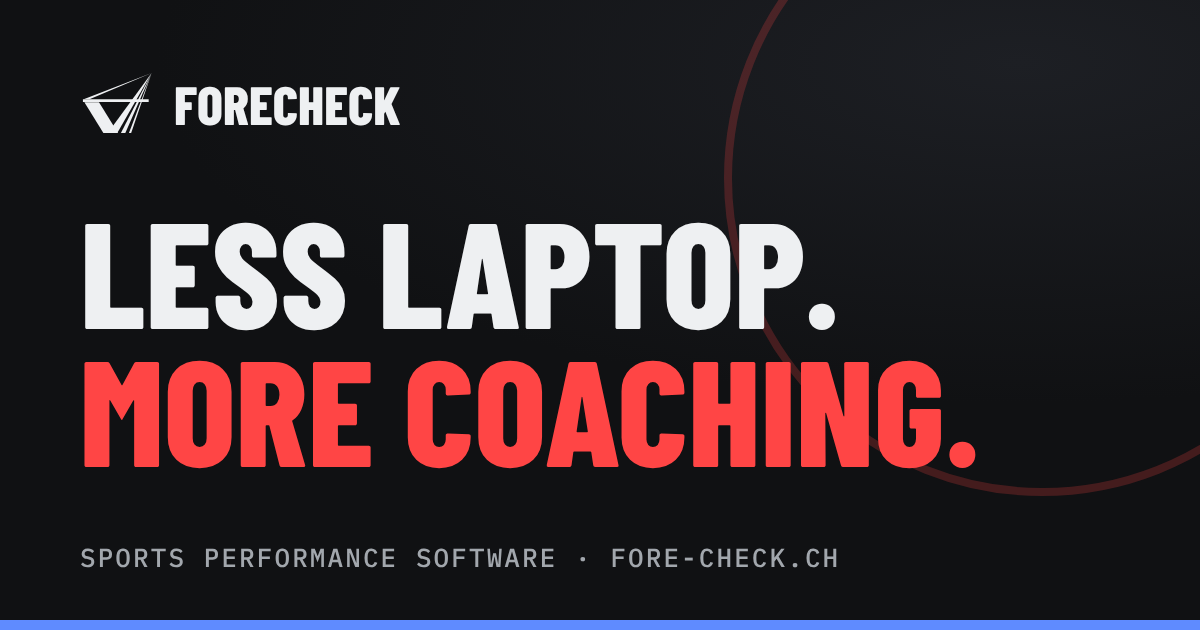
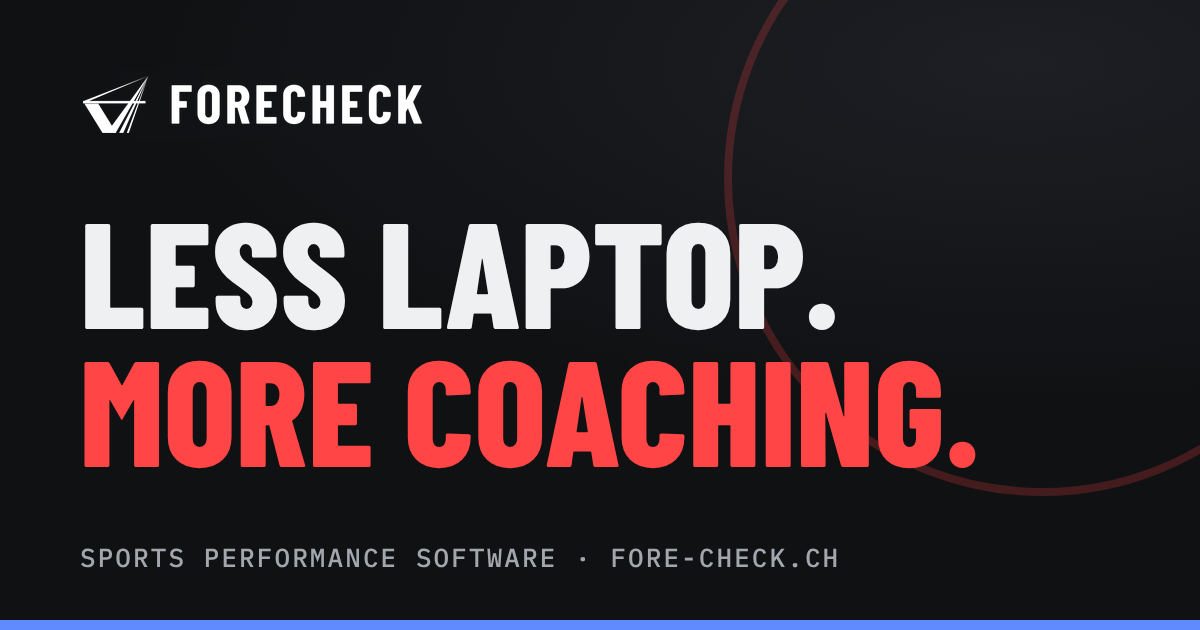
Brand lettering A1: FORECHECK in Barlow Condensed Bold .06em in the header and page mock-ups on all languages, og and hello images (Sergio 30/10)

Changed region(s): [[0.0617, 0.1206, 0.37, 0.2111]]

diff --git a/assets/theme.css b/assets/theme.css
@@ -34,8 +34,7 @@ h3{font-size:1.18rem;text-transform:none}
 
 /* header */
 header.top{background:color-mix(in srgb,var(--ice) 90%,transparent)}
-.mark{font-family:var(--display);font-weight:700;font-size:1.05rem;letter-spacing:.24em;text-transform:uppercase}
-.mark b{font-weight:700}
+.mark{font-family:var(--display);font-weight:700;font-size:1.85rem;line-height:1;letter-spacing:.06em;text-transform:uppercase}
 nav.links a[aria-current="page"],nav.pages a[aria-current="page"]{color:var(--strong);box-shadow:0 2px 0 var(--accent)}
 .btn{border-radius:var(--r);border:1px solid var(--line);background:var(--panel);color:var(--strong);padding:11px 18px;font-weight:700}
 .btn:hover{border-color:var(--accent)}
@@ -138,7 +137,7 @@ nav.links a[aria-current="page"],nav.pages a[aria-current="page"]{color:var(--st
 /* demo app screens on the feature pages: the app shell (side menu, slim top bar, round mic) */
 .screen.shell{display:grid;grid-template-columns:168px minmax(0,1fr);background:var(--app)}
 .shell .rail{background:var(--sheet);border-right:1px solid var(--line);padding:12px 8px;display:flex;flex-direction:column;gap:1px;font-size:12px;min-width:0}
-.shell .appmark{display:flex;align-items:center;gap:7px;padding:2px 6px 10px;font:700 11px var(--display);letter-spacing:.2em;color:var(--strong)}
+.shell .appmark{display:flex;align-items:center;gap:7px;padding:2px 6px 10px;font:700 15px var(--display);letter-spacing:.06em;color:var(--strong)}
 .shell .appmark svg{width:22px;height:19px}
 .shell .grp{font:700 9px var(--display);letter-spacing:.12em;text-transform:uppercase;color:var(--ink-2);padding:9px 8px 3px}
 .shell .rm{padding:5px 8px;border-radius:var(--r);white-space:nowrap;overflow:hidden;text-overflow:ellipsis;color:var(--ink)}
@@ -161,7 +160,7 @@ nav.links a[aria-current="page"],nav.pages a[aria-current="page"]{color:var(--st
 .phero h1{font-size:clamp(2.4rem,5.4vw,4.2rem)}
 
 /* small screens: keep logo, language and contact on one line */
-@media (max-width:600px){header.top .wrap{gap:8px}.mark{letter-spacing:.12em;font-size:.9rem;gap:8px}.mark svg{width:30px;height:26px}.top .btn{padding:8px 11px;font-size:.84rem}.lang select{padding:8px 26px 8px 10px;font-size:.84rem}.lang::after{right:10px}.actions{gap:6px}}
+@media (max-width:600px){header.top .wrap{gap:8px}.mark{font-size:1.45rem;gap:10px}.mark svg{width:30px;height:26px}.top .btn{padding:8px 11px;font-size:.84rem}.lang select{padding:8px 26px 8px 10px;font-size:.84rem}.lang::after{right:10px}.actions{gap:6px}}
 @media (max-width:430px){.mark span{display:none}}
 @media (max-width:600px){.fart,.fart>.pnl,.tblwrap{min-width:0;max-width:100%}.tbl{font-size:11.5px}.tbl th,.tbl td{padding:6px 5px}}
 .next-link{font-weight:700;text-transform:none;font-size:clamp(2rem,6vw,3.4rem);line-height:1.05;overflow-wrap:anywhere}.next-link:hover{color:var(--accent)}

diff --git a/de/index.html b/de/index.html
@@ -67,9 +67,8 @@ p{margin:0;max-width:62ch}
 /* nav */
 header.top{position:sticky;top:env(safe-area-inset-top,0px);z-index:10;background:color-mix(in srgb,var(--ice) 88%,transparent);backdrop-filter:blur(10px);border-bottom:1px solid var(--line)}
 header.top .wrap{display:flex;align-items:center;justify-content:space-between;gap:16px;padding-block:14px}
-.mark{display:flex;align-items:center;gap:10px;font-family:var(--display);font-weight:800;font-size:1.6rem;text-transform:uppercase;text-decoration:none;letter-spacing:.01em}
+.mark{display:flex;align-items:center;gap:13px;font-family:var(--display);font-weight:700;font-size:1.85rem;line-height:1;text-transform:uppercase;text-decoration:none;letter-spacing:.06em}
 .mark svg{width:38px;height:33px;flex:none}
-.mark b{color:inherit;font-weight:800}
 nav.links{display:flex;gap:24px;font-weight:500}
 nav.links a{text-decoration:none;color:var(--ink-2)}
 nav.links a:hover{color:var(--ink)}
@@ -223,7 +222,7 @@ footer .about{display:block;font-size:.8rem;max-width:100ch;margin-top:10px;opac
 .lang select:hover{border-color:var(--ink-2)}
 .lang::after{content:"";position:absolute;right:15px;top:50%;width:7px;height:7px;border-right:2px solid var(--ink-2);border-bottom:2px solid var(--ink-2);transform:translateY(-70%) rotate(45deg);pointer-events:none}
 .sr{position:absolute;width:1px;height:1px;overflow:hidden;clip:rect(0 0 0 0);white-space:nowrap}
-@media (max-width:420px){.top .btn{padding:10px 14px}.mark{font-size:1.35rem}}
+@media (max-width:420px){.top .btn{padding:10px 14px}.mark{font-size:1.45rem}}
 @media (min-width:1101px){.mods{grid-template-columns:repeat(4,1fr)}}
 </style>
 <link rel="stylesheet" href="../assets/theme.css">
@@ -236,7 +235,7 @@ footer .about{display:block;font-size:.8rem;max-width:100ch;margin-top:10px;opac
   <div class="wrap">
     <a class="mark" href="#top" aria-label="ForeCheck home">
       <svg viewBox="6 12 104 90" fill="currentColor" aria-hidden="true"><polygon points="44,98 57,98 104,16"/><polygon points="62,98 68,98 104,16"/><polygon points="73,98 76,98 104,16"/><polygon points="12,56 32,56 58,98 38,98"/><polygon points="10,52 100,52 100,55.5 10,55.5"/><polygon points="104,16 19,52 11,52"/></svg>
-      <span>Fore<b>Check</b></span>
+      <span>FORECHECK</span>
     </a>
     <nav class="links pages" aria-label="Product">
       <a href="hockey.html" data-i18n="nav_hockey">Eishockey</a><a href="load.html" data-i18n="nav_load">Belastung</a>

diff --git a/fr/index.html b/fr/index.html
@@ -67,9 +67,8 @@ p{margin:0;max-width:62ch}
 /* nav */
 header.top{position:sticky;top:env(safe-area-inset-top,0px);z-index:10;background:color-mix(in srgb,var(--ice) 88%,transparent);backdrop-filter:blur(10px);border-bottom:1px solid var(--line)}
 header.top .wrap{display:flex;align-items:center;justify-content:space-between;gap:16px;padding-block:14px}
-.mark{display:flex;align-items:center;gap:10px;font-family:var(--display);font-weight:800;font-size:1.6rem;text-transform:uppercase;text-decoration:none;letter-spacing:.01em}
+.mark{display:flex;align-items:center;gap:13px;font-family:var(--display);font-weight:700;font-size:1.85rem;line-height:1;text-transform:uppercase;text-decoration:none;letter-spacing:.06em}
 .mark svg{width:38px;height:33px;flex:none}
-.mark b{color:inherit;font-weight:800}
 nav.links{display:flex;gap:24px;font-weight:500}
 nav.links a{text-decoration:none;color:var(--ink-2)}
 nav.links a:hover{color:var(--ink)}
@@ -223,7 +222,7 @@ footer .about{display:block;font-size:.8rem;max-width:100ch;margin-top:10px;opac
 .lang select:hover{border-color:var(--ink-2)}
 .lang::after{content:"";position:absolute;right:15px;top:50%;width:7px;height:7px;border-right:2px solid var(--ink-2);border-bottom:2px solid var(--ink-2);transform:translateY(-70%) rotate(45deg);pointer-events:none}
 .sr{position:absolute;width:1px;height:1px;overflow:hidden;clip:rect(0 0 0 0);white-space:nowrap}
-@media (max-width:420px){.top .btn{padding:10px 14px}.mark{font-size:1.35rem}}
+@media (max-width:420px){.top .btn{padding:10px 14px}.mark{font-size:1.45rem}}
 @media (min-width:1101px){.mods{grid-template-columns:repeat(4,1fr)}}
 </style>
 <link rel="stylesheet" href="../assets/theme.css">
@@ -236,7 +235,7 @@ footer .about{display:block;font-size:.8rem;max-width:100ch;margin-top:10px;opac
   <div class="wrap">
     <a class="mark" href="#top" aria-label="ForeCheck home">
       <svg viewBox="6 12 104 90" fill="currentColor" aria-hidden="true"><polygon points="44,98 57,98 104,16"/><polygon points="62,98 68,98 104,16"/><polygon points="73,98 76,98 104,16"/><polygon points="12,56 32,56 58,98 38,98"/><polygon points="10,52 100,52 100,55.5 10,55.5"/><polygon points="104,16 19,52 11,52"/></svg>
-      <span>Fore<b>Check</b></span>
+      <span>FORECHECK</span>
     </a>
     <nav class="links pages" aria-label="Product">
       <a href="hockey.html" data-i18n="nav_hockey">Hockey</a><a href="load.html" data-i18n="nav_load">Charge</a>

diff --git a/it/index.html b/it/index.html
@@ -67,9 +67,8 @@ p{margin:0;max-width:62ch}
 /* nav */
 header.top{position:sticky;top:env(safe-area-inset-top,0px);z-index:10;background:color-mix(in srgb,var(--ice) 88%,transparent);backdrop-filter:blur(10px);border-bottom:1px solid var(--line)}
 header.top .wrap{display:flex;align-items:center;justify-content:space-between;gap:16px;padding-block:14px}
-.mark{display:flex;align-items:center;gap:10px;font-family:var(--display);font-weight:800;font-size:1.6rem;text-transform:uppercase;text-decoration:none;letter-spacing:.01em}
+.mark{display:flex;align-items:center;gap:13px;font-family:var(--display);font-weight:700;font-size:1.85rem;line-height:1;text-transform:uppercase;text-decoration:none;letter-spacing:.06em}
 .mark svg{width:38px;height:33px;flex:none}
-.mark b{color:inherit;font-weight:800}
 nav.links{display:flex;gap:24px;font-weight:500}
 nav.links a{text-decoration:none;color:var(--ink-2)}
 nav.links a:hover{color:var(--ink)}
@@ -223,7 +222,7 @@ footer .about{display:block;font-size:.8rem;max-width:100ch;margin-top:10px;opac
 .lang select:hover{border-color:var(--ink-2)}
 .lang::after{content:"";position:absolute;right:15px;top:50%;width:7px;height:7px;border-right:2px solid var(--ink-2);border-bottom:2px solid var(--ink-2);transform:translateY(-70%) rotate(45deg);pointer-events:none}
 .sr{position:absolute;width:1px;height:1px;overflow:hidden;clip:rect(0 0 0 0);white-space:nowrap}
-@media (max-width:420px){.top .btn{padding:10px 14px}.mark{font-size:1.35rem}}
+@media (max-width:420px){.top .btn{padding:10px 14px}.mark{font-size:1.45rem}}
 @media (min-width:1101px){.mods{grid-template-columns:repeat(4,1fr)}}
 </style>
 <link rel="stylesheet" href="../assets/theme.css">
@@ -236,7 +235,7 @@ footer .about{display:block;font-size:.8rem;max-width:100ch;margin-top:10px;opac
   <div class="wrap">
     <a class="mark" href="#top" aria-label="ForeCheck home">
       <svg viewBox="6 12 104 90" fill="currentColor" aria-hidden="true"><polygon points="44,98 57,98 104,16"/><polygon points="62,98 68,98 104,16"/><polygon points="73,98 76,98 104,16"/><polygon points="12,56 32,56 58,98 38,98"/><polygon points="10,52 100,52 100,55.5 10,55.5"/><polygon points="104,16 19,52 11,52"/></svg>
-      <span>Fore<b>Check</b></span>
+      <span>FORECHECK</span>
     </a>
     <nav class="links pages" aria-label="Product">
       <a href="hockey.html" data-i18n="nav_hockey">Hockey</a><a href="load.html" data-i18n="nav_load">Carico</a>

diff --git a/index.html b/index.html
@@ -67,9 +67,8 @@ p{margin:0;max-width:62ch}
 /* nav */
 header.top{position:sticky;top:env(safe-area-inset-top,0px);z-index:10;background:color-mix(in srgb,var(--ice) 88%,transparent);backdrop-filter:blur(10px);border-bottom:1px solid var(--line)}
 header.top .wrap{display:flex;align-items:center;justify-content:space-between;gap:16px;padding-block:14px}
-.mark{display:flex;align-items:center;gap:10px;font-family:var(--display);font-weight:800;font-size:1.6rem;text-transform:uppercase;text-decoration:none;letter-spacing:.01em}
+.mark{display:flex;align-items:center;gap:13px;font-family:var(--display);font-weight:700;font-size:1.85rem;line-height:1;text-transform:uppercase;text-decoration:none;letter-spacing:.06em}
 .mark svg{width:38px;height:33px;flex:none}
-.mark b{color:inherit;font-weight:800}
 nav.links{display:flex;gap:24px;font-weight:500}
 nav.links a{text-decoration:none;color:var(--ink-2)}
 nav.links a:hover{color:var(--ink)}
@@ -223,7 +222,7 @@ footer .about{display:block;font-size:.8rem;max-width:100ch;margin-top:10px;opac
 .lang select:hover{border-color:var(--ink-2)}
 .lang::after{content:"";position:absolute;right:15px;top:50%;width:7px;height:7px;border-right:2px solid var(--ink-2);border-bottom:2px solid var(--ink-2);transform:translateY(-70%) rotate(45deg);pointer-events:none}
 .sr{position:absolute;width:1px;height:1px;overflow:hidden;clip:rect(0 0 0 0);white-space:nowrap}
-@media (max-width:420px){.top .btn{padding:10px 14px}.mark{font-size:1.35rem}}
+@media (max-width:420px){.top .btn{padding:10px 14px}.mark{font-size:1.45rem}}
 @media (min-width:1101px){.mods{grid-template-columns:repeat(4,1fr)}}
 </style>
 <link rel="stylesheet" href="assets/theme.css">
@@ -236,7 +235,7 @@ footer .about{display:block;font-size:.8rem;max-width:100ch;margin-top:10px;opac
   <div class="wrap">
     <a class="mark" href="#top" aria-label="ForeCheck home">
       <svg viewBox="6 12 104 90" fill="currentColor" aria-hidden="true"><polygon points="44,98 57,98 104,16"/><polygon points="62,98 68,98 104,16"/><polygon points="73,98 76,98 104,16"/><polygon points="12,56 32,56 58,98 38,98"/><polygon points="10,52 100,52 100,55.5 10,55.5"/><polygon points="104,16 19,52 11,52"/></svg>
-      <span>Fore<b>Check</b></span>
+      <span>FORECHECK</span>
     </a>
     <nav class="links pages" aria-label="Product">
       <a href="hockey.html" data-i18n="nav_hockey">Ice hockey</a><a href="load.html" data-i18n="nav_load">Load</a>

diff --git a/it/conditioning.html b/it/conditioning.html
@@ -35,7 +35,7 @@
 <body class="page-conditioning">
 <header class="top">
   <div class="wrap">
-    <a class="mark" href="index.html" aria-label="ForeCheck home"><svg viewBox="6 12 104 90" fill="currentColor" aria-hidden="true"><polygon points="44,98 57,98 104,16"/><polygon points="62,98 68,98 104,16"/><polygon points="73,98 76,98 104,16"/><polygon points="12,56 32,56 58,98 38,98"/><polygon points="10,52 100,52 100,55.5 10,55.5"/><polygon points="104,16 19,52 11,52"/></svg><span>Fore<b>Check</b></span></a>
+    <a class="mark" href="index.html" aria-label="ForeCheck home"><svg viewBox="6 12 104 90" fill="currentColor" aria-hidden="true"><polygon points="44,98 57,98 104,16"/><polygon points="62,98 68,98 104,16"/><polygon points="73,98 76,98 104,16"/><polygon points="12,56 32,56 58,98 38,98"/><polygon points="10,52 100,52 100,55.5 10,55.5"/><polygon points="104,16 19,52 11,52"/></svg><span>FORECHECK</span></a>
     <nav class="links pages" aria-label="Product"><a href="hockey.html" data-i18n="nav_hockey">Hockey</a><a href="load.html" data-i18n="nav_load">Carico</a><a href="conditioning.html" aria-current="page" data-i18n="nav_conditioning">Condizionamento</a><a href="calendar.html" data-i18n="nav_calendar">Calendario</a><a href="strength.html" data-i18n="nav_strength">Forza & test</a><a href="rehab.html" data-i18n="nav_rehab">Riabilitazione</a><a href="players.html" data-i18n="nav_players">Giocatori</a><a href="security.html" data-i18n="nav_security">Sicurezza</a><a href="science.html" data-i18n="nav_science">Scienza</a></nav>
     <div class="actions">
       <label class="lang" title="Language"><span class="sr">Language</span><select id="lang-select" aria-label="Language"><option value="en">EN</option><option value="de">DE</option><option value="fr">FR</option><option value="it">IT</option></select></label>

diff --git a/it/calendar.html b/it/calendar.html
@@ -35,7 +35,7 @@
 <body class="page-calendar">
 <header class="top">
   <div class="wrap">
-    <a class="mark" href="index.html" aria-label="ForeCheck home"><svg viewBox="6 12 104 90" fill="currentColor" aria-hidden="true"><polygon points="44,98 57,98 104,16"/><polygon points="62,98 68,98 104,16"/><polygon points="73,98 76,98 104,16"/><polygon points="12,56 32,56 58,98 38,98"/><polygon points="10,52 100,52 100,55.5 10,55.5"/><polygon points="104,16 19,52 11,52"/></svg><span>Fore<b>Check</b></span></a>
+    <a class="mark" href="index.html" aria-label="ForeCheck home"><svg viewBox="6 12 104 90" fill="currentColor" aria-hidden="true"><polygon points="44,98 57,98 104,16"/><polygon points="62,98 68,98 104,16"/><polygon points="73,98 76,98 104,16"/><polygon points="12,56 32,56 58,98 38,98"/><polygon points="10,52 100,52 100,55.5 10,55.5"/><polygon points="104,16 19,52 11,52"/></svg><span>FORECHECK</span></a>
     <nav class="links pages" aria-label="Product"><a href="hockey.html" data-i18n="nav_hockey">Hockey</a><a href="load.html" data-i18n="nav_load">Carico</a><a href="conditioning.html" data-i18n="nav_conditioning">Condizionamento</a><a href="calendar.html" aria-current="page" data-i18n="nav_calendar">Calendario</a><a href="strength.html" data-i18n="nav_strength">Forza & test</a><a href="rehab.html" data-i18n="nav_rehab">Riabilitazione</a><a href="players.html" data-i18n="nav_players">Giocatori</a><a href="security.html" data-i18n="nav_security">Sicurezza</a><a href="science.html" data-i18n="nav_science">Scienza</a></nav>
     <div class="actions">
       <label class="lang" title="Language"><span class="sr">Language</span><select id="lang-select" aria-label="Language"><option value="en">EN</option><option value="de">DE</option><option value="fr">FR</option><option value="it">IT</option></select></label>

diff --git a/it/security.html b/it/security.html
@@ -35,7 +35,7 @@
 <body class="page-security">
 <header class="top">
   <div class="wrap">
-    <a class="mark" href="index.html" aria-label="ForeCheck home"><svg viewBox="6 12 104 90" fill="currentColor" aria-hidden="true"><polygon points="44,98 57,98 104,16"/><polygon points="62,98 68,98 104,16"/><polygon points="73,98 76,98 104,16"/><polygon points="12,56 32,56 58,98 38,98"/><polygon points="10,52 100,52 100,55.5 10,55.5"/><polygon points="104,16 19,52 11,52"/></svg><span>Fore<b>Check</b></span></a>
+    <a class="mark" href="index.html" aria-label="ForeCheck home"><svg viewBox="6 12 104 90" fill="currentColor" aria-hidden="true"><polygon points="44,98 57,98 104,16"/><polygon points="62,98 68,98 104,16"/><polygon points="73,98 76,98 104,16"/><polygon points="12,56 32,56 58,98 38,98"/><polygon points="10,52 100,52 100,55.5 10,55.5"/><polygon points="104,16 19,52 11,52"/></svg><span>FORECHECK</span></a>
     <nav class="links pages" aria-label="Product"><a href="hockey.html" data-i18n="nav_hockey">Hockey</a><a href="load.html" data-i18n="nav_load">Carico</a><a href="conditioning.html" data-i18n="nav_conditioning">Condizionamento</a><a href="calendar.html" data-i18n="nav_calendar">Calendario</a><a href="strength.html" data-i18n="nav_strength">Forza & test</a><a href="rehab.html" data-i18n="nav_rehab">Riabilitazione</a><a href="players.html" data-i18n="nav_players">Giocatori</a><a href="security.html" aria-current="page" data-i18n="nav_security">Sicurezza</a><a href="science.html" data-i18n="nav_science">Scienza</a></nav>
     <div class="actions">
       <label class="lang" title="Language"><span class="sr">Language</span><select id="lang-select" aria-label="Language"><option value="en">EN</option><option value="de">DE</option><option value="fr">FR</option><option value="it">IT</option></select></label>

diff --git a/it/strength.html b/it/strength.html
@@ -35,7 +35,7 @@
 <body class="page-strength">
 <header class="top">
   <div class="wrap">
-    <a class="mark" href="index.html" aria-label="ForeCheck home"><svg viewBox="6 12 104 90" fill="currentColor" aria-hidden="true"><polygon points="44,98 57,98 104,16"/><polygon points="62,98 68,98 104,16"/><polygon points="73,98 76,98 104,16"/><polygon points="12,56 32,56 58,98 38,98"/><polygon points="10,52 100,52 100,55.5 10,55.5"/><polygon points="104,16 19,52 11,52"/></svg><span>Fore<b>Check</b></span></a>
+    <a class="mark" href="index.html" aria-label="ForeCheck home"><svg viewBox="6 12 104 90" fill="currentColor" aria-hidden="true"><polygon points="44,98 57,98 104,16"/><polygon points="62,98 68,98 104,16"/><polygon points="73,98 76,98 104,16"/><polygon points="12,56 32,56 58,98 38,98"/><polygon points="10,52 100,52 100,55.5 10,55.5"/><polygon points="104,16 19,52 11,52"/></svg><span>FORECHECK</span></a>
     <nav class="links pages" aria-label="Product"><a href="hockey.html" data-i18n="nav_hockey">Hockey</a><a href="load.html" data-i18n="nav_load">Carico</a><a href="conditioning.html" data-i18n="nav_conditioning">Condizionamento</a><a href="calendar.html" data-i18n="nav_calendar">Calendario</a><a href="strength.html" aria-current="page" data-i18n="nav_strength">Forza & test</a><a href="rehab.html" data-i18n="nav_rehab">Riabilitazione</a><a href="players.html" data-i18n="nav_players">Giocatori</a><a href="security.html" data-i18n="nav_security">Sicurezza</a><a href="science.html" data-i18n="nav_science">Scienza</a></nav>
     <div class="actions">
       <label class="lang" title="Language"><span class="sr">Language</span><select id="lang-select" aria-label="Language"><option value="en">EN</option><option value="de">DE</option><option value="fr">FR</option><option value="it">IT</option></select></label>

diff --git a/fr/conditioning.html b/fr/conditioning.html
@@ -35,7 +35,7 @@
 <body class="page-conditioning">
 <header class="top">
   <div class="wrap">
-    <a class="mark" href="index.html" aria-label="ForeCheck home"><svg viewBox="6 12 104 90" fill="currentColor" aria-hidden="true"><polygon points="44,98 57,98 104,16"/><polygon points="62,98 68,98 104,16"/><polygon points="73,98 76,98 104,16"/><polygon points="12,56 32,56 58,98 38,98"/><polygon points="10,52 100,52 100,55.5 10,55.5"/><polygon points="104,16 19,52 11,52"/></svg><span>Fore<b>Check</b></span></a>
+    <a class="mark" href="index.html" aria-label="ForeCheck home"><svg viewBox="6 12 104 90" fill="currentColor" aria-hidden="true"><polygon points="44,98 57,98 104,16"/><polygon points="62,98 68,98 104,16"/><polygon points="73,98 76,98 104,16"/><polygon points="12,56 32,56 58,98 38,98"/><polygon points="10,52 100,52 100,55.5 10,55.5"/><polygon points="104,16 19,52 11,52"/></svg><span>FORECHECK</span></a>
     <nav class="links pages" aria-label="Product"><a href="hockey.html" data-i18n="nav_hockey">Hockey</a><a href="load.html" data-i18n="nav_load">Charge</a><a href="conditioning.html" aria-current="page" data-i18n="nav_conditioning">Condition physique</a><a href="calendar.html" data-i18n="nav_calendar">Calendrier</a><a href="strength.html" data-i18n="nav_strength">Force & tests</a><a href="rehab.html" data-i18n="nav_rehab">Réhab</a><a href="players.html" data-i18n="nav_players">Joueurs</a><a href="security.html" data-i18n="nav_security">Sécurité</a><a href="science.html" data-i18n="nav_science">Science</a></nav>
     <div class="actions">
       <label class="lang" title="Language"><span class="sr">Language</span><select id="lang-select" aria-label="Language"><option value="en">EN</option><option value="de">DE</option><option value="fr">FR</option><option value="it">IT</option></select></label>

diff --git a/it/players.html b/it/players.html
@@ -35,7 +35,7 @@
 <body class="page-players">
 <header class="top">
   <div class="wrap">
-    <a class="mark" href="index.html" aria-label="ForeCheck home"><svg viewBox="6 12 104 90" fill="currentColor" aria-hidden="true"><polygon points="44,98 57,98 104,16"/><polygon points="62,98 68,98 104,16"/><polygon points="73,98 76,98 104,16"/><polygon points="12,56 32,56 58,98 38,98"/><polygon points="10,52 100,52 100,55.5 10,55.5"/><polygon points="104,16 19,52 11,52"/></svg><span>Fore<b>Check</b></span></a>
+    <a class="mark" href="index.html" aria-label="ForeCheck home"><svg viewBox="6 12 104 90" fill="currentColor" aria-hidden="true"><polygon points="44,98 57,98 104,16"/><polygon points="62,98 68,98 104,16"/><polygon points="73,98 76,98 104,16"/><polygon points="12,56 32,56 58,98 38,98"/><polygon points="10,52 100,52 100,55.5 10,55.5"/><polygon points="104,16 19,52 11,52"/></svg><span>FORECHECK</span></a>
     <nav class="links pages" aria-label="Product"><a href="hockey.html" data-i18n="nav_hockey">Hockey</a><a href="load.html" data-i18n="nav_load">Carico</a><a href="conditioning.html" data-i18n="nav_conditioning">Condizionamento</a><a href="calendar.html" data-i18n="nav_calendar">Calendario</a><a href="strength.html" data-i18n="nav_strength">Forza & test</a><a href="rehab.html" data-i18n="nav_rehab">Riabilitazione</a><a href="players.html" aria-current="page" data-i18n="nav_players">Giocatori</a><a href="security.html" data-i18n="nav_security">Sicurezza</a><a href="science.html" data-i18n="nav_science">Scienza</a></nav>
     <div class="actions">
       <label class="lang" title="Language"><span class="sr">Language</span><select id="lang-select" aria-label="Language"><option value="en">EN</option><option value="de">DE</option><option value="fr">FR</option><option value="it">IT</option></select></label>

diff --git a/it/science.html b/it/science.html
@@ -35,7 +35,7 @@
 <body class="page-science">
 <header class="top">
   <div class="wrap">
-    <a class="mark" href="index.html" aria-label="ForeCheck home"><svg viewBox="6 12 104 90" fill="currentColor" aria-hidden="true"><polygon points="44,98 57,98 104,16"/><polygon points="62,98 68,98 104,16"/><polygon points="73,98 76,98 104,16"/><polygon points="12,56 32,56 58,98 38,98"/><polygon points="10,52 100,52 100,55.5 10,55.5"/><polygon points="104,16 19,52 11,52"/></svg><span>Fore<b>Check</b></span></a>
+    <a class="mark" href="index.html" aria-label="ForeCheck home"><svg viewBox="6 12 104 90" fill="currentColor" aria-hidden="true"><polygon points="44,98 57,98 104,16"/><polygon points="62,98 68,98 104,16"/><polygon points="73,98 76,98 104,16"/><polygon points="12,56 32,56 58,98 38,98"/><polygon points="10,52 100,52 100,55.5 10,55.5"/><polygon points="104,16 19,52 11,52"/></svg><span>FORECHECK</span></a>
     <nav class="links pages" aria-label="Product"><a href="hockey.html" data-i18n="nav_hockey">Hockey</a><a href="load.html" data-i18n="nav_load">Carico</a><a href="conditioning.html" data-i18n="nav_conditioning">Condizionamento</a><a href="calendar.html" data-i18n="nav_calendar">Calendario</a><a href="strength.html" data-i18n="nav_strength">Forza & test</a><a href="rehab.html" data-i18n="nav_rehab">Riabilitazione</a><a href="players.html" data-i18n="nav_players">Giocatori</a><a href="security.html" data-i18n="nav_security">Sicurezza</a><a href="science.html" aria-current="page" data-i18n="nav_science">Scienza</a></nav>
     <div class="actions">
       <label class="lang" title="Language"><span class="sr">Language</span><select id="lang-select" aria-label="Language"><option value="en">EN</option><option value="de">DE</option><option value="fr">FR</option><option value="it">IT</option></select></label>
